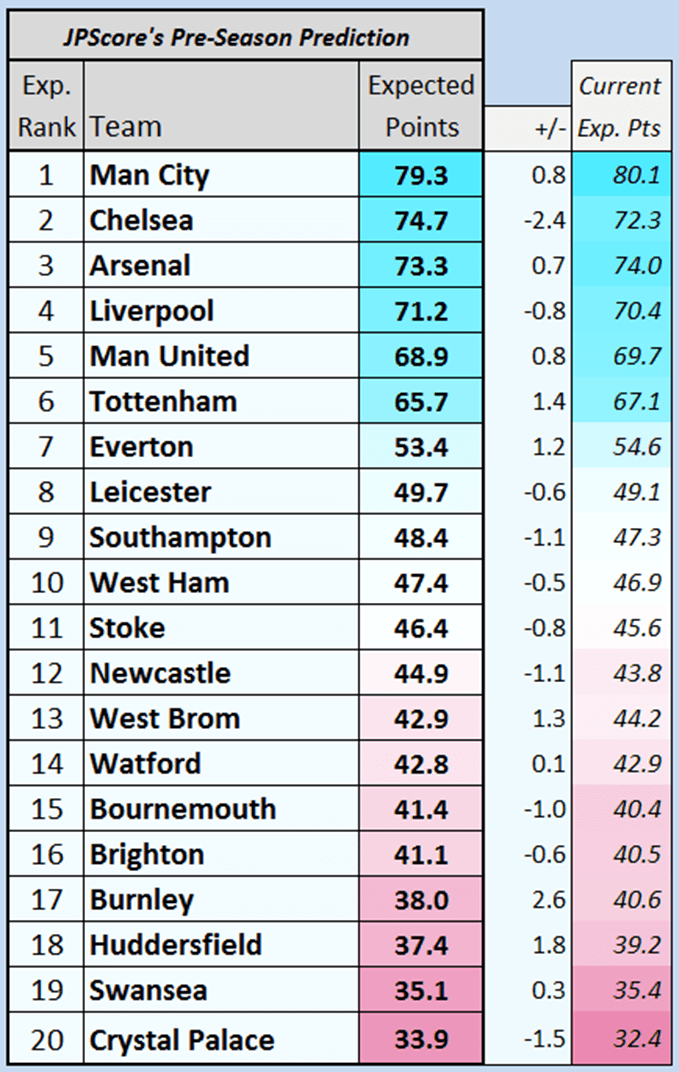
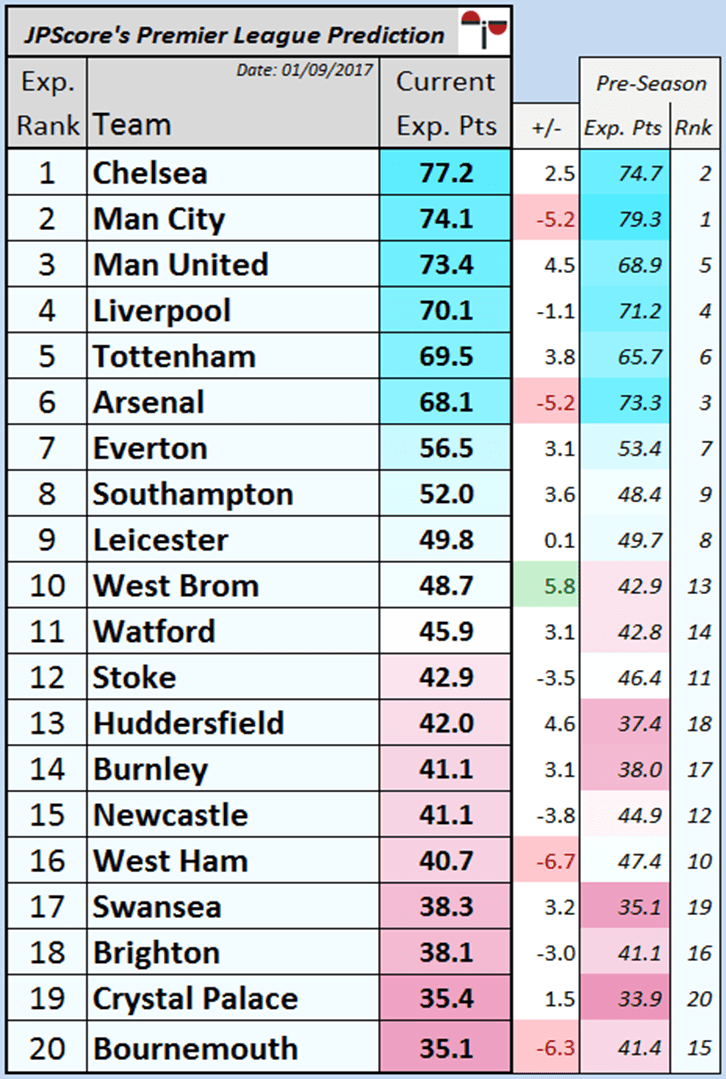
Port.

diff --git a/assets/posts/17-08-2017.html b/assets/posts/17-08-2017.html
@@ -1,9 +1,10 @@
-<p class="heading1">JPScore's Predicted Table (Before Week 1)</p>
+<p class="paragraph bold">Changes: Updated <a href="#prem-table">prediction table</a> and added <a href="#prem-new">new section</a>.</p>
+<p id="prem-table" class="heading1">JPScore's Predicted Table</p>
 <div class="imageWrapper">
         <img class="image portraitImage" src="assets/postImages/17-08-2017/prem-table.png" />
 </div>
 <p class="heading2">Calculating the Table</p>
-<p class="paragraph">Each club has been provided a rating for the season based on their: JPScore first team quality, JPScore squad depth, average age, manager influence, long term injuries and European competition interruption. The exception to this are newly promoted teams due to a lack of scouting. Instead, their predictions are signficiantly rougher and are decided on historic trends of promoted teams and only changed when notable signings are made. Every fixture has been simulated using the JPScore betting probabilities to find their expected points in each match.</p>
+<p class="paragraph">Each club has been provided a rating for the season based on their: JPScore first team quality, JPScore squad depth, average age, manager influence, long term injuries and European competition interruption. The exception to this are newly promoted teams due to a lack of scouting. Instead, their predictions are signficiantly rougher and are decided based on historic trends of promoted teams and only changed when notable signings are made. Every fixture has been simulated using the JPScore betting probabilities to find their expected points in each match.</p>
 <p class="heading2">Method</p>
 <p class="paragraph">Using data and ideas from <a href="https://twitter.com/SimonGleave?ref_src=twsrc%5Egoogle%7Ctwcamp%5Eserp%7Ctwgr%5Eauthor" target="_blank">@SimonGleave’s</a> <a href="https://scoreboardjournalism.wordpress.com/2014/09/11/predicting-the-premier-league/" target="_blank">Predicting the Premier League</a> I was able to create a method of analysing the performance of a predicted league table. All data was based on a previous season and obviously things change season-to-season but as a rough benchmark I think this works.</p> 
 <p class="paragraph">
@@ -13,11 +14,12 @@
 	3) Find the standard deviation of both numbers<br/>
 	4) Add them together
 </p>
-<p class="paragraph">@SimonGleave’s post was for the 2014/15 season and had 54 entries; 27 of which were statistical model predictions, 18 from the media and 9 fans. The overall average prediction score was 7.4 (the lower the better), with models averaging a 6.81. First place scored 5.67 and last scored 10.2. Realistically achieving a place in the top 22% would be a good return – for 2014/15 this was anything under 6.5. This is my target for 2017/18 I will evaluated this in a post at the end of the season.</p>
-<p class="heading1">Transfers and Important Notes</p>
-<p class="paragraph bold">Transfers as of 16/08/2017. At the end of the transfer window, a section will be added to the bottom of this post to discuss the new transfers.</p>
+<p class="paragraph">@SimonGleave’s post was for the 2014/15 season and had 54 entries; 27 of which were statistical model predictions, 18 from the media and 9 fans.</p>
+<p class="paragraph">The overall average prediction score was 7.4 (the lower the better), with statistical models averaging a 6.81. First place scored 5.67 and last scored 10.2. Realistically, achieving a place in the top 22% would be a good return – for 2014/15 this was anything under 6.5. This is my target for 2017/18 and I will evaluate this in a post at the end of the season.</p>
+<p class="heading1">Transfers and Important Notes (EPL Week 1)</p>
+<p class="paragraph bold">See the bottom of the post for transfers that occurred after 16/08/2017.</p>
 <p class="heading2">Man City</p>
-<p class="paragraph">Man City’s transfer window has been incredibly expensive, yet overall pretty mediocre. Kyle Walker (6.75) is JPScore’s second highest rated mover and provides the exact traits that Man City lacked in 2016/17. Benjamin Mendy has the highest peak of the new young signings and has the necessary offensive output for a Guardiola player. Whether he’s ready defensively and in possession I’m not so sure. Danilo is around the same ability but has the exact opposite issues. I expect Bernardo Silva to disappoint and that has been written about in detail <a href="www.intacttactic.co.uk/?d=12-08-2017-2#c" target="_blank">here</a>.</p>
+<p class="paragraph">Man City’s transfer window has been incredibly expensive, yet overall pretty mediocre. Kyle Walker (6.75) is JPScore’s second highest rated mover and provides the exact traits that Man City lacked in 2016/17. Benjamin Mendy has the highest peak of their the new young signings and has the necessary offensive output for a Guardiola player. Whether he’s ready defensively and in possession I’m not so sure. Danilo is around the same ability but has the exact opposite issues. I expect Bernardo Silva to disappoint and that has been written about in detail <a href="www.intacttactic.co.uk/?d=12-08-2017-2#c" target="_blank">here</a>.</p>
 <p class="paragraph">It’s likely that Man City will sell several players that JPScore rates highly, despite current expectations saying they’ll be the runaway Premier League winners. Nasri (6.45), Mangala (6.25) and Bony (6.15) are all expected to leave and, assuming they’re not replaced, will reduce their current predicted points from 79.3 to 70.1. It’s a huge and unnecessary downgrade which will leave Guardiola short of high quality squad options.</p>
 <div class="imageWrapper">
         <img class="image" src="assets/postImages/17-08-2017/walker.png" />
@@ -27,9 +29,10 @@
 <p class="paragraph">The one positive transfer is Alvaro Morata (6.85) who is JPScore’s highest rated signing for a Premier League team so far. If Diego Costa does leave then they’ve replaced him perfectly and if he doesn’t, they have unbelievable options in attack. Andreas Christensen is back from loan and ready to contribute. He’s rated as potentially elite with an expected peaked of 7.7 - currently within the top 10 under-21 players in the world.</p>
 <p class="paragraph">Chelsea still need to improve their squad depth considering the amount of players they have let go. Champions League football forces squad rotation and, as seen in the opening fixture, Chelsea haven’t got that right now. Overall the situation isn’t as bad as it’s being made out to be, it was just very preventable.</p>
 <p class="heading2">Arsenal</p>
-<p class="paragraph">Alexandre Lacazette is somewhat of a mystery to me. He has the aura of a world class striker, and yet I’ve never really been wowed. It’s possible that his teammates held him back at Lyon, it’s also possible he’s just not as good as he looks he should be. Regardless, he’s a goalscorer and if there’s one thing Arsenal do well, it’s giving chances to their number 9.</p>
+<p class="paragraph">Alexandre Lacazette is somewhat of a mystery to me. He has the aura of a world class striker and yet I’ve never really been wowed. It’s possible that his teammates held him back at Lyon, it’s also possible he’s just not as good as he looks he should be. Regardless, he’s a goalscorer and if there’s one thing Arsenal do well, it’s giving chances to their number 9.</p>
 <p class="paragraph">Arsenal’s only other signing so far, Sead Kolasinac, has impressed fans early on and marginally improves the JPScore best team. A solid addition, especially as a free transfer, though mistakes will occasionally pop up with his incredibly aggressive style.</p>
-<p class="paragraph">Overall, the trasnfer window has been more positive than negative but still not enough to push for a title. Players of quality are lacking and with two weeks of the transfer window remaining and no real rumours, it’s unlikely this will change. Considering Arsenal’s injury history, Santi Cazorla stuck in limbo and JPScore favourite, Theo Walcott, usually watching from the bench, it’s unlikely Arsenal will overachieve their predicted league position.</p>
+<p class="paragraph">Overall, the trasnfer window has been more positive than negative but still not enough to push for a title. Players of quality are lacking and with two weeks of the transfer window remaining and no real rumours, it’s unlikely this will change.</p>
+<p class="paragraph">Considering Arsenal’s injury history, Santi Cazorla being stuck in limbo and JPScore favourite, Theo Walcott, usually watching from the bench, it’s unlikely Arsenal will overachieve their predicted league position.</p>
 <p class="paragraph bold">Note: Arsenal were discussed in detail <a href="www.intacttactic.co.uk/?d=11-08-2017-2#c" target="_blank">here</a> before their first game, but there are two changes from that post that need to be mentioned. Firstly, Cazorla is now included for continuity’s sake even though I don’t expect to see him play much in 2017/18. Only players expected to be out injured for over 4 months are now excluded from the team ratings. In addition, a bug was found when calculating Arsenal’s rating. These two factors have seen their expected points rise from 71 to 73.3 ahead of the season.</p>
 <p class="heading2">Liverpool</p>
 <p class="paragraph">Mohamed Salah (5.9) and Andrew Robertson (4.5) are the only two over-21 additions so far with Lucas Leiva (5.8) and Kevin Stewart (4.7) leaving the club. Nothing really seems to have changed from last season with the goalkeeper and defence still a worry. Alberto Moreno (4.3) has apparently had a miracle revival in pre-season but I highly doubt this opinion will last very long. Mamadou Sakho (6.85) is Liverpool’s 3rd highest rated player and seemingly the obvious solution to Liverpool’s defensive issues; however Jurgen Klopp reportedly has problems with Sakho’s attitude.</p>
@@ -91,7 +94,7 @@
 <p class="paragraph bold">See Newcastle for the note about newly promoted teams.</p>
 <p class="paragraph">Huddersfield have brought Tom Ince to the Premier League, and while I haven’t seen a huge amount of his matches, what I have seen suggests he at least deserves a chance. Jonas Lossl was terrible in most areas for Mainz in 2016/17. I’m yet to see any of their other signings play.</p>
 <p class="heading2">Swansea</p>
-<p class="paragraph">Similar to Watford, Swansea’s squad is incredibly mixed. Fernando Llorente ranks as one of the league’s best attackers, Martin Olsson was a solid addition in January, and Roque Mesa (5.3) should bring back some of the old Swansea passing flair. The rest of the squad are either young, Premier League average, or just bad. Very bad in fact. Excluding under-21 players and newly promoted teams, Swansea’s bottom 5 players average a JPScore of 3.9. The lowest aside from from Crystal Palace (3.95) and no other Premier League side comes close to that rating.</p>
+<p class="paragraph">Similar to Watford, Swansea’s squad is incredibly mixed. Fernando Llorente ranks as one of the league’s best attackers, Martin Olsson was a solid addition in January, and Roque Mesa (5.3) should bring back some of the old Swansea passing flair. The rest of the squad are either young, Premier League average, or just bad. Very bad in fact. Excluding under-21 players and newly promoted teams, Swansea’s bottom 5 players average a JPScore of 3.9. The lowest in the Premier League and no other side comes close, aside from from Crystal Palace (3.95).</p>
 <p class="paragraph">Excluding Roque Mesa, Swansea’s transfer window has underwhelmed. Borja Baston was loaned out after never really being given a chance, Jack Cork was sold to a relegation rival, and Sigurdsson has finally completed his far too expensive move to Everton. This frees up funds to improve the squad but they have also lost their 3rd best player. Tammy Abraham has joined on loan with all the hype you expect from a young English striker off the back of a goal scoring streak. I’m not a fan from the limited matches I’ve seen, he seems reluctant to get involved and that will be noticed in the Premier League.</p>
 <p class="paragraph">Fortunately for Swansea, they have Fernando Llorente who will probably play just about all of the season and improve their average quite drastically. Whether it’s enough to avoid relegation I’m not quite sure. It does seem that they are still a few first team regulars short of avoiding relegation.</p>
 <div class="imageWrapper">
@@ -100,5 +103,33 @@
 <p class="heading2">Crystal Palace</p>
 <p class="paragraph">Things look bleak for Crystal Palace. With only one permanent signing so far, Jairo Riedewald (20 years old), and the loans of Ruben Loftus-Cheek (21) and Timothy Fosu-Mensah (19), I can’t see any real improvement to the squad. Steve Mandanda (5) has returned to Marseille, meaning Wayne Hennessey (4.1) is currently first choice. This goalkeeper situation was a problem last season and will continue to be until Hennessey is replaced.</p>
 <p class="paragraph">The squad is small, lacks quality and has already dropped 1.5 expected points in the season’s opener at home to Huddersfield. I’m a De Boer sceptic at the best of times and in this situation, with all odds against him, I’ll be very surprised if he keeps Crystal Palace from relegation.</p>
-<p class="heading1">End of Transfer Window</p>
-<p class="paragraph bold">While I aim not to make a habit of editing posts, I will be writing this section at the end of the transfer window to talk about the remaining transfers and to update the predicted table.</p> 
+<p id="prem-new" class="heading1">End of Transfer Window</p>
+<p class="heading2">Title Challenge</p>
+<p class="paragraph">Chelsea have become the new JPScore favourites and could still win the title regardless, but it is worth noting in this prediction that Diego Costa has been included despite it being completely possible that he’ll refuse to play. Alvaro Morata is a similar level player so the prediction shouldn’t be too far off anyway.</p>
+<p class="paragraph">The rest of Chelsea’s transfer window was quite underwhelming. Danny Drinkwater was a decent signing late on and, even if the fee was quite heavy, he provides solid depth to an area that needed it. Zappacosta is similar though JPScore rates him as a mid-table level player.</p>
+<p class="paragraph">As I suggested might happen a few weeks ago, Man City moved Samir Nasri and Wilfried Bony out of the club, causing their expected points to take a hit. Both players are rated as title challenging level and better than several of their more used options. Eliaquim Mangala stayed which will prove to be a bonus for Guardiola if he’s selected, though right now that seems unlikely. Failing to sign Alexis Sanchez means Man City’s success for the season will likely depend on their young attackers - this is a very risky approach.</p>
+<p class="paragraph">Overall Man United had the best window of the top teams. Transfer decisions were quick and that planning seems to have positively affected their start to the season. Mourinho has found his lineup early on and the squad as a whole is better than last season. Ibrahimovic renewing was just the icing on top of an already sturdy cake. If I had to guess the league winner without looking at JPScore’s ratings, it would be them. JPScore does remain slightly sceptical of their wide options though, plus several players are either past their peak or yet to reach it.</p> 
+<div class="imageWrapper">
+        <img class="image" src="assets/postImages/17-08-2017/ibra-chart.png" />
+</div>
+<p class="heading2">Top 4 Race</p>
+<p class="paragraph">Liverpool are currently performing at a very high level so criticism might seem strange. However, failing to upgrade on Dejan Lovren (5.1), Nathaniel Clyne (4.75) and Simon Mignolet (5) for another year is ridiculous and will most probably ruin their title challenge. Mamadou Sakho (6.85), the internal answer to the centre back problem, was allowed to join Crystal Palace due to off-pitch issues. Plus, James Milner seems to have lost his place at left back after an impressive year to the always underwhelming Alberto Moreno.</p>
+<p class="paragraph">Liverpool’s players over the age of 21 in midfield and attack have an average rating of 6.09. The defence and goalkeepers are significantly lower at 5.06. Even with Klopp’s impact and the ability elsewhere on the pitch, I can’t see this not letting them down. Signing <a href="intacttactic.co.uk/?d=23-08-2017#c" target="_blank">Oxlade-Chamberlain</a> was pointless in this respect and more so when you consider that Naby Keita will be joining in 2018.</p> 
+<div class="imageWrapper">
+        <img class="image" src="assets/postImages/17-08-2017/moreno-chart.png" />
+</div>
+<p class="paragraph">Fernando Llorente (chart in previous section) was a big signing for Tottenham and a massive upgrade on Vincent Janssen (4.1). His style of play provides a different tactical option to Pochettino as well as excellent cover if Harry Kane faces an injury or dip in form. As for right back, Spurs have signed one of the best about in Serge Aurier (6.45 – peak 6.75). It’s a long term option that adds extra quality to an already very strong defence. These two deadline day signings added 6.2 points and put Spurs back in contention for the top 4, despite dropping points in the opening weeks and not having a home game all season. No team improved more than Tottenham on deadline day.</p>
+<p class="paragraph">The late mess in Arsenal’s transfer window saw Alex Oxlade-Chamberlain, Gabriel Paulista, Kieran Gibbs, Lucas Perez and Joel Campbell leave the club without any signings being made. Squad depth is more of a factor for Europa League sides than anyone else and therefore Arsenal’s late departures reduced the expected points, despite none of these players being rated above mid-table by JPScore.</p>
+<p class="heading2">Mid-Table</p>
+<p class="paragraph">Everton's squad had no major changes. Southampton and West Brom are two of the four most improved teams since the original post several weeks ago. As previously mentioned, Southampton needed a centre back and to keep Van Dijk. They managed it and brought in a JPScore favourite in Wesley Hoedt for only £15m. West Brom’s problem was squad depth; Gregorz Krychowiak and Kieran Gibbs have not only improved that, but are also two of the three best players at the club now. Even at 36 years old Gareth Barry is playing at a high enough level that he ranks as the 8th best at the club.</p>
+<div class="imageWrapper">
+        <img class="image" src="assets/postImages/17-08-2017/hoedt-chart.png" />
+</div>
+<p class="paragraph">Andre Carrillo is expected to be a pretty good addition for Watford, though their expected point rise was also from certain squad upgrades, namely Abdoulaye Doucoure.</p>
+<p class="paragraph">Leicester’s midfield took a bit of a hit on deadline day with Danny Drinkwater (chart in previous section) and Nampalys Mendy leaving the club, even though Adrien Silva has been signed. Aleksandar Dragovic (5.85) is a huge upgrade on Robert Huth (4.35) and Wes Morgan (4.25).</p>
+<p class="paragraph">Stoke loaning out Bojan Krkic, Giannelli Imbula and Philipp Wollscheid late on, as well as selling Joselu, caused them to drop 3.3 expected points. Wimmer could be a useful signing and always looked a decent player for Tottenham. I’m not sure they’ll get pulled into the relegation fight but I also don’t expect much of a top half push.</p>
+<p class="heading2">Relegation Battle</p>
+<p class="paragraph">West Ham and Newcastle have joined the relegation battle after weak starts to their seasons and selling players without replacing them. Bournemouth have dropped to 20th for the similar reasons. None of the clubs lost anyone particularly important, but all three now lack strength in depth. Brighton's start has been similarly poor and sees the drop into the relegation places.</p>
+<p class="paragraph">Crystal Palace signing Mamadou Sakho is huge for the club and individually gained 5.3 expected points – the most of any player on deadline day. This is partially due to his impressive JPScore rating, but also because he replaced Martin Kelly (4.1) who is a Crystal Palace weak link.</p>
+<p class="paragraph">Swansea replaced Llorente with Bony, both are JPScore favourites, as well as bringing in Renato Sanches (4.2 – peak 5.35). He’s still young and not rated very high due to a dodgy 2016/17 season, but could improve with regular first team football. Considering it’s only a loan, that Swansea have better midfielders and the fact he has only just turned 20, I don’t expect Renato Sanches to have the impact that public opinion is currently suggesting.</p>
+<p class="paragraph">Huddersfield and Burnley remain in the relegation battle, though both have picked up some good results in the opening weeks.</p> 

diff --git a/assets/previews/17-08-2017.html b/assets/previews/17-08-2017.html
@@ -19,7 +19,8 @@
             		<img class="image" src="assets/postImages/17-08-2017/prem.png" />
         	</div>
 		<div class="intro">
-			<p class="paragraph">The Premier League started again last week and panic has already spread through a number of clubs. Have Chelsea changed too much? Is Liverpool’s defence up to the task? Can Crystal Palace stay up under De Boer? Throughout this post I aim to answer these questions to the best of my ability, with a team by team roundup on transfers and important squad topics.</p>
+			<p class="paragraph bold">Updated 02/09/2017 for the end of the transfer window</p>
+			<p class="paragraph">The Premier League started again last week and panic has already spread through a number of clubs. Have Chelsea changed too much? Is Liverpool’s defence up to the task? Can Crystal Palace stay up under De Boer? Throughout this post I aim to answer these questions to the best of my ability, with a team-by-team roundup on transfers and important squad topics.</p>
 		</div>
 		<div class="content"></div>
     	</div>
